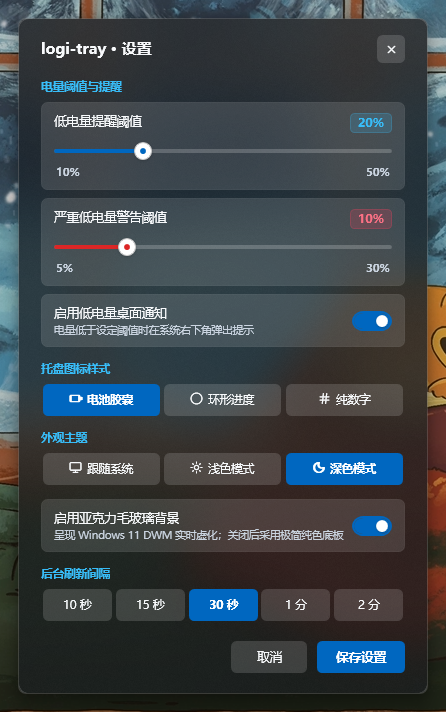
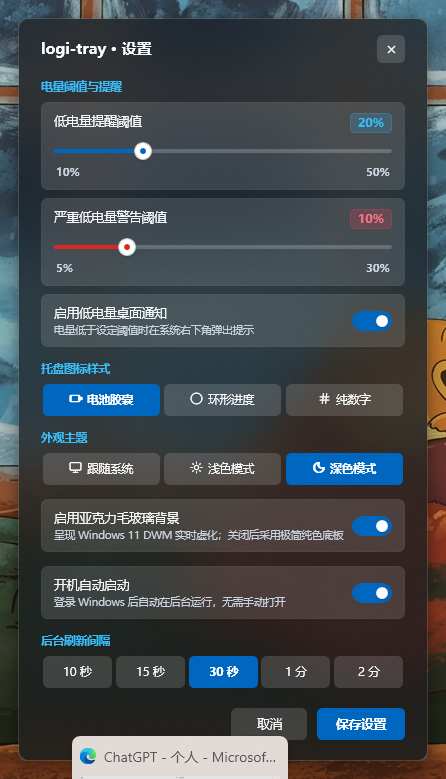
feat: add autostart toggle in settings
- new AutoStartService managing HKCU Run entry
- settings card with live toggle (writes/removes entry immediately)
- first run adopts installer-written entry; config authoritative afterwards
- drop redundant 安装并开机自启.bat script
- refresh settings screenshots and docs

diff --git a/wpf/SettingsWindow.cs b/wpf/SettingsWindow.cs
@@ -34,6 +34,8 @@ public sealed class SettingsWindow : Window
     private Border _critBadge = null!;
     private CheckBox _notifyToggle = null!;
     private CheckBox _acrylicToggle = null!;
+    private CheckBox _autoStartToggle = null!;
+    private TextBlock _autoStartDesc = null!;
     private int _selectedInterval;
     private string _selectedStyle;
     private string _selectedThemeMode;
@@ -504,6 +506,57 @@ public sealed class SettingsWindow : Window
         acrylicBorder.SetResourceReference(Border.BorderBrushProperty, "ThemeCardBorder");
         sp.Children.Add(acrylicBorder);
 
+        // 开机自启卡片
+        var autoStartCardGrid = new Grid { Margin = new Thickness(12, 10, 12, 10) };
+        autoStartCardGrid.ColumnDefinitions.Add(new ColumnDefinition { Width = new GridLength(1, GridUnitType.Star) });
+        autoStartCardGrid.ColumnDefinitions.Add(new ColumnDefinition { Width = GridLength.Auto });
+
+        var autoStartTextPanel = new StackPanel { VerticalAlignment = VerticalAlignment.Center };
+        var autoStartTitle = new TextBlock
+        {
+            Text = "开机自动启动",
+            FontSize = 12.5,
+            FontWeight = FontWeights.Medium
+        };
+        autoStartTitle.SetResourceReference(TextBlock.ForegroundProperty, "ThemeTextPrimary");
+        autoStartTextPanel.Children.Add(autoStartTitle);
+
+        _autoStartDesc = new TextBlock
+        {
+            Text = AutoStartService.IsEnabled()
+                ? "登录 Windows 后自动在后台运行，无需手动打开"
+                : "登录 Windows 后不会自动运行，需手动启动",
+            FontSize = 10.5,
+            Margin = new Thickness(0, 2, 0, 0),
+            TextTrimming = TextTrimming.CharacterEllipsis
+        };
+        _autoStartDesc.SetResourceReference(TextBlock.ForegroundProperty, "ThemeTextSecondary");
+        autoStartTextPanel.Children.Add(_autoStartDesc);
+        autoStartCardGrid.Children.Add(autoStartTextPanel);
+
+        _autoStartToggle = new CheckBox
+        {
+            IsChecked = AutoStartService.IsEnabled(),
+            VerticalAlignment = VerticalAlignment.Center,
+            HorizontalAlignment = HorizontalAlignment.Right,
+            Style = (Style)FindResource("FluentToggleSwitchStyle")
+        };
+        _autoStartToggle.Checked += (_, _) => UpdateAutoStartState(true);
+        _autoStartToggle.Unchecked += (_, _) => UpdateAutoStartState(false);
+        Grid.SetColumn(_autoStartToggle, 1);
+        autoStartCardGrid.Children.Add(_autoStartToggle);
+
+        var autoStartBorder = new Border
+        {
+            CornerRadius = new CornerRadius(6),
+            BorderThickness = new Thickness(1),
+            Child = autoStartCardGrid,
+            Margin = new Thickness(0, 0, 0, 14)
+        };
+        autoStartBorder.SetResourceReference(Border.BackgroundProperty, "ThemeCardBackground");
+        autoStartBorder.SetResourceReference(Border.BorderBrushProperty, "ThemeCardBorder");
+        sp.Children.Add(autoStartBorder);
+
         // 5. 分组：后台刷新间隔
         var grp4 = new TextBlock
         {
@@ -586,7 +639,19 @@ public sealed class SettingsWindow : Window
             _config.TrayIconStyle = _selectedStyle;
             _config.ThemeMode = _selectedThemeMode;
             _config.AcrylicEnabled = _acrylicToggle.IsChecked ?? true;
+            _config.Autostart = _autoStartToggle.IsChecked ?? false;
             _config.Save();
+
+            // 立即把启动项写入/移出注册表
+            bool applied = AutoStartService.Apply(_config.Autostart);
+            if (!applied)
+            {
+                System.Windows.MessageBox.Show(this,
+                    "写入开机启动项失败，可能是注册表权限受限。\n" +
+                    "程序设置已保存，但开机自启可能不会生效。",
+                    "logi-tray", MessageBoxButton.OK, MessageBoxImage.Warning);
+            }
+
             _onSaved?.Invoke(_config);
             Close();
         };
@@ -673,6 +738,22 @@ public sealed class SettingsWindow : Window
         });
 
         return sp;
+    }
+
+    /// <summary>
+    /// 勾选/取消开机自启时立即写入或移除注册表启动项，并刷新说明文字。
+    /// </summary>
+    private void UpdateAutoStartState(bool enabled)
+    {
+        bool ok = AutoStartService.Apply(enabled);
+
+        if (_autoStartDesc != null)
+        {
+            _autoStartDesc.Text = enabled
+                ? (ok ? "登录 Windows 后自动在后台运行，无需手动打开"
+                      : "⚠ 写入启动项失败，请检查注册表权限")
+                : "登录 Windows 后不会自动运行，需手动启动";
+        }
     }
 
     private void UpdateBadgeColors()

diff --git a/wpf/AutoStartService.cs b/wpf/AutoStartService.cs
@@ -1,0 +1,114 @@
+using System;
+using System.Diagnostics;
+using System.IO;
+using Microsoft.Win32;
+
+namespace MouseBatteryTray;
+
+/// <summary>
+/// 开机自启动管理：通过 HKCU\Software\Microsoft\Windows\CurrentVersion\Run 写入/移除
+/// 当前用户的启动项（无需管理员权限，仅影响当前用户）。
+/// </summary>
+public static class AutoStartService
+{
+    private const string RunKey = @"Software\Microsoft\Windows\CurrentVersion\Run";
+    private const string ValueName = "logi-tray";
+
+    /// <summary>当前可执行文件的完整路径（优先使用真实进程路径，回退到基目录拼接）。</summary>
+    public static string ExecutablePath
+    {
+        get
+        {
+            try
+            {
+                string? path = Environment.ProcessPath;
+                if (!string.IsNullOrEmpty(path) && File.Exists(path)) return path;
+            }
+            catch { }
+
+            return Path.Combine(AppDomain.CurrentDomain.BaseDirectory, "logi-tray.exe");
+        }
+    }
+
+    /// <summary>读取注册表中当前登记的启动项命令（不存在返回 null）。</summary>
+    public static string? RegisteredCommand
+    {
+        get
+        {
+            try
+            {
+                using var key = Registry.CurrentUser.OpenSubKey(RunKey, false);
+                return key?.GetValue(ValueName) as string;
+            }
+            catch
+            {
+                return null;
+            }
+        }
+    }
+
+    /// <summary>启动项是否已启用且指向当前程序。</summary>
+    public static bool IsEnabled()
+    {
+        string? cmd = RegisteredCommand;
+        if (string.IsNullOrWhiteSpace(cmd)) return false;
+
+        string current = ExecutablePath;
+        string normalized = cmd.Trim().Trim('"');
+        return string.Equals(normalized, current, StringComparison.OrdinalIgnoreCase);
+    }
+
+    /// <summary>启用开机自启。返回是否成功。</summary>
+    public static bool Enable()
+    {
+        try
+        {
+            using var key = Registry.CurrentUser.OpenSubKey(RunKey, true)
+                            ?? Registry.CurrentUser.CreateSubKey(RunKey, true);
+            if (key == null) return false;
+
+            key.SetValue(ValueName, $"\"{ExecutablePath}\"", RegistryValueKind.String);
+            return true;
+        }
+        catch
+        {
+            return false;
+        }
+    }
+
+    /// <summary>关闭开机自启。返回是否成功。</summary>
+    public static bool Disable()
+    {
+        try
+        {
+            using var key = Registry.CurrentUser.OpenSubKey(RunKey, true);
+            if (key?.GetValue(ValueName) != null)
+            {
+                key.DeleteValue(ValueName, false);
+            }
+            return true;
+        }
+        catch
+        {
+            return false;
+        }
+    }
+
+    /// <summary>按需同步启动项状态，使其与配置保持一致。</summary>
+    public static bool Apply(bool enabled) => enabled ? Enable() : Disable();
+
+    /// <summary>
+    /// 首次运行时（尚无配置文件）采用注册表现状，避免安装脚本写入的自启项被误删；
+    /// 配置文件已存在时以配置为准，保证界面开关能真正关掉自启。
+    /// </summary>
+    public static bool ResolveInitialState(bool configuredEnabled, bool configFileExisted)
+    {
+        if (!configFileExisted)
+        {
+            return IsEnabled();
+        }
+
+        Apply(configuredEnabled);
+        return configuredEnabled;
+    }
+}

diff --git a/wpf/Program.cs b/wpf/Program.cs
@@ -24,9 +24,18 @@ public static class Program
             ShutdownMode = ShutdownMode.OnExplicitShutdown
         };
 
+        bool configExisted = SettingsConfig.ConfigExists();
         var config = SettingsConfig.Load();
         ThemeService.SetThemeMode(config.ThemeMode);
         ThemeService.SetAcrylicEnabled(config.AcrylicEnabled);
+
+        // 对齐开机自启：首次运行沿用安装脚本写入的状态，之后以配置为准
+        config.Autostart = AutoStartService.ResolveInitialState(config.Autostart, configExisted);
+        if (!configExisted)
+        {
+            // 首次运行落盘一次，避免每次都重新探测注册表
+            try { config.Save(); } catch { }
+        }
 
         MouseBatteryDetailsWindow? detailsWin = null;
         SettingsWindow? settingsWin = null;

diff --git a/wpf/BatteryModels.cs b/wpf/BatteryModels.cs
@@ -68,6 +68,18 @@ public class SettingsConfig
         "logi-tray",
         "settings.json");
 
+    /// <summary>配置文件（含旧版迁移路径）是否已存在。</summary>
+    public static bool ConfigExists()
+    {
+        if (File.Exists(ConfigPath)) return true;
+
+        string oldPath = Path.Combine(
+            Environment.GetFolderPath(Environment.SpecialFolder.LocalApplicationData),
+            "MouseBatteryTray",
+            "settings.json");
+        return File.Exists(oldPath);
+    }
+
     public static SettingsConfig Load()
     {
         try
